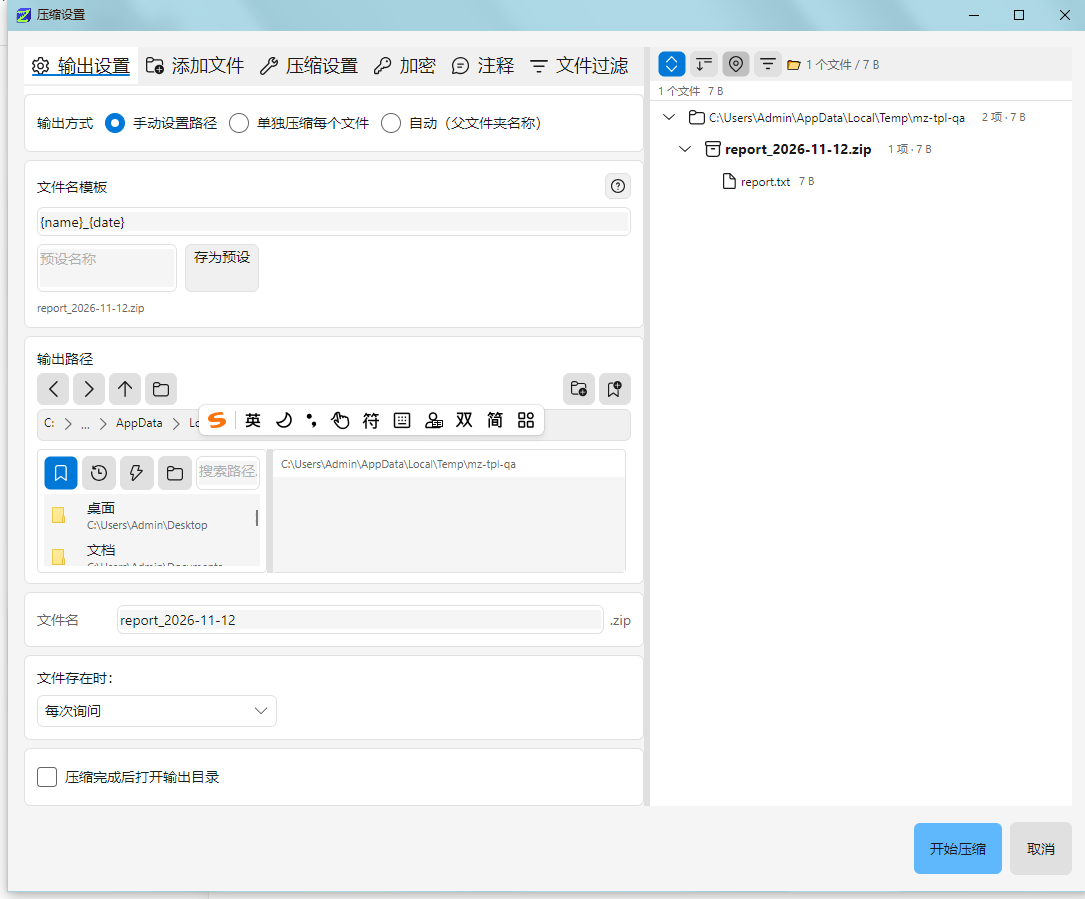
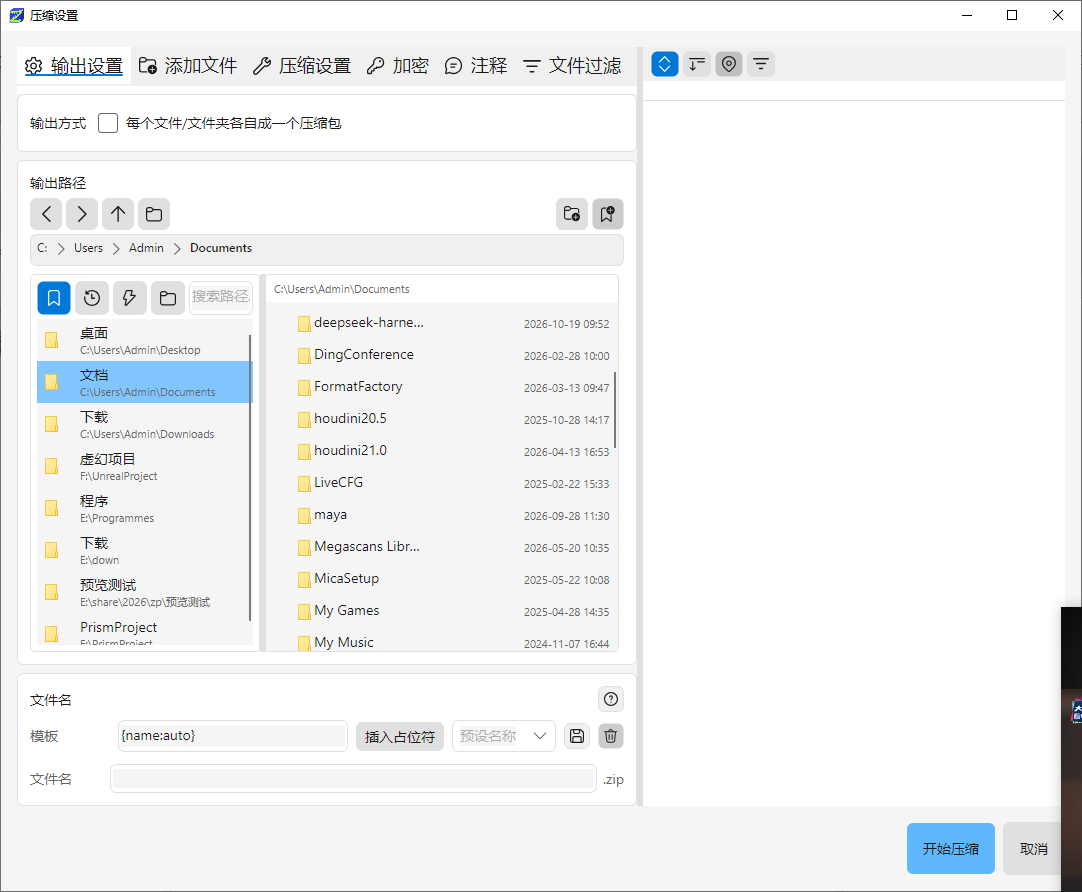
docs: 补齐 v0.5.7 发布截图并修正三条图注
FileNameTemplate.png 换成卡片合并后的当前界面，新增 Issue89Preview.png；三条图注按实际画面重写（原图注写了截图里看不到的东西）。

diff --git a/RELEASE_NOTES.md b/RELEASE_NOTES.md
@@ -12,10 +12,10 @@ MantisZip-0.5.7-Setup-WebSetup.exe requires internet during installation. Mantis
 
 - **进度窗口的「冲突时:」下拉，运行中改了就生效** — 解压 / 压缩运行时，进度窗口信息区首行右侧出现「冲突时:」下拉：解压 6 档（每次询问 / 覆盖 / 覆盖较旧 / 覆盖较小 / 重命名 / 跳过）、压缩 5 档（每次询问 / 覆盖 / 添加 / 重命名 / 跳过）。改动只影响之后遇到的冲突，不必取消重来；冲突弹窗里勾「应用到全部」会反向刷新下拉，两边始终一致。7z 固实包例外：落点在开始解压前就已定案，进入解码阶段后下拉变灰并说明原因。
 - **A conflict policy you can change mid-run** — the progress window shows an "On conflict:" dropdown while extracting or compressing: six options for extraction (ask / overwrite / overwrite if older / overwrite if smaller / rename / skip) and five for compression (ask / overwrite / add / rename / skip). A change affects only the conflicts after it, so there is no need to cancel and restart. Solid 7z archives are the exception: their plan is fixed before decoding starts, so the dropdown greys out with a note saying why.
-- ![进度窗口信息区首行右侧的「冲突时:」下拉：解压 6 档，固实包开始解码后自动置灰](docs/images/version/v0.5.7/ProgressConflictPolicy.png)
+- ![进度窗口信息区首行右侧的「冲突时:」下拉，与「精简 / 标准 / 完整」密度选择同排](docs/images/version/v0.5.7/ProgressConflictPolicy.png)
 - **压缩包名可以按模板自动生成了** — 压缩设置里新增「文件名模板」，用占位符拼包名：`{name}` 源文件名、`{ext}` 源扩展名、`{parent}` 上级目录名、`{date}` / `{datetime}` 日期时间、`{seq}` 序号（`{seq:0000}` 补四位）、`{name:auto}` 按源数量自动取名。格式扩展名自动补，预览树里看到的包名就是最终包名；模板留空则行为与之前完全一致。右侧 `?` 有完整说明，常用模板可「存为预设」，设置页还能为三种入口分别设默认值。
 - **Name your archives with a template** — compose the archive name from placeholders: `{name}` source file name, `{ext}` source extension, `{parent}` parent folder name, `{date}` / `{datetime}` date and time, `{seq}` a sequence number (`{seq:0000}` zero-padded), and `{name:auto}` which picks a name based on how many sources there are. The format extension is appended automatically, the preview tree shows the final name, and an empty template keeps the previous behaviour. The `?` button opens the reference, and templates can be saved as presets.
-- ![压缩设置「文件名模板」：占位符输入框、预设与只读的输出文件名；右侧预览树已显示最终包名](docs/images/version/v0.5.7/FileNameTemplate.png)
+- ![压缩设置「文件名模板」：占位符按钮与预设下拉都在模板输入行里，下方是输出文件名，扩展名由格式自动补](docs/images/version/v0.5.7/FileNameTemplate.png)
 
 **修复 / Fixes**
 
@@ -23,7 +23,7 @@ MantisZip-0.5.7-Setup-WebSetup.exe requires internet during installation. Mantis
 - **The language and theme you pick in the installer now actually apply** — the choices made in the setup wizard never made it into the app, so it always started in light theme and Chinese no matter what was selected (changing them in settings afterwards did work). The wizard's choices are now applied on first launch and saved.
 - **带调色板的 ICO 打不开、动画 WebP 预览卡顿（issue #89）** — ① 低色深（1 / 4 / 8 位）ICO 的像素起始偏移漏算了调色板长度，整帧解不出来、预览直接报不支持；② 动画 WebP 改为链式增量解码并直写位图，26 帧的文件从 7.9 秒降到 0.4 秒左右，帧数超过 600 或像素总量超过 192 MB 时只显示首帧并在画面上说明原因。
 - **Palette ICOs failed to open and animated WebP previews crawled (issue #89)** — palette-based ICO frames (1 / 4 / 8-bit) computed the pixel offset without the palette size, so the frame never decoded and the preview reported the file as unsupported; animated WebP now decodes frames incrementally straight into bitmaps, cutting a 26-frame file from 7.9 s to about 0.4 s, and files over 600 frames or 192 MB of pixels show only the first frame with an on-screen explanation.
-- ![ICO 图标预览已能显示带调色板的帧；动画 WebP 预览帧数超限时只显示首帧并给出说明](docs/images/version/v0.5.7/Issue89Preview.png)
+- ![带调色板的 ICO 帧已能正常预览：选中 Test_02.ico，右侧元数据与图标都显示出来了](docs/images/version/v0.5.7/Issue89Preview.png)
 - **「解压到此处」「解压到同一文件夹」「智能解压」不再无视冲突设置** — 这三条原地解压路径此前调用引擎时不传任何选项，引擎一律按覆盖处理，用户选了「每次询问」或「跳过」也照旧静默覆盖同名文件（KI-012，数据丢失级）。现在三条路径都带上默认策略与询问弹窗，进度窗口里也有「冲突时:」下拉，与其他解压入口完全一致。
 - **"Extract here", "extract to folder" and smart extract no longer ignore your conflict settings** — those three in-place paths called the engine without any options, and the engine treats "no settings" as overwrite, silently replacing files of the same name even when "ask every time" or "skip" was configured (tracked as KI-012, a data-loss class issue). All three now pass the default policy and the ask dialog, and their progress window shows the same "On conflict:" dropdown as every other extraction entry point.
 - **右键菜单用一次就消失（issue #80）** — 启用「动态菜单」后右键压缩或解压一次，MantisZip 菜单项会永久消失。现在菜单组件自己上报「菜单确实画出来了」的心跳，一旦失效就自动回退到静态菜单，不会再出现「既没有动态菜单、也没有兜底」的两头空。
